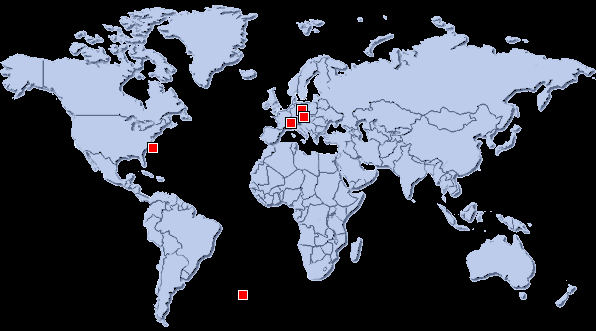
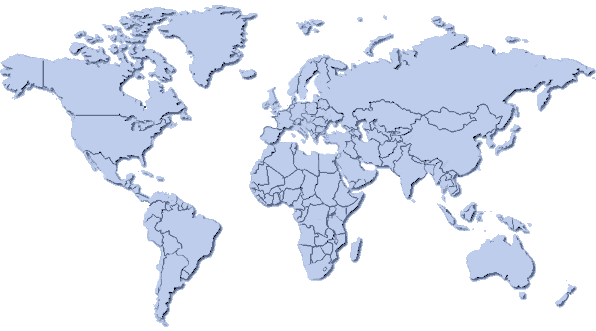
[svn] - finally, there is support for changing the coordinates simply by clicking on the map!   (requires JavaScript support in the browser)

diff --git a/community/web/map/change.php b/community/web/map/change.php
@@ -1,0 +1,83 @@
+<?php include_once("database.php"); ?>
+<?php include_once("auth.php"); ?>
+<?php
+
+if(!Auth::username()) :
+	header("Location: index.php");
+	exit;
+endif;
+
+if ($task) :
+	$ggzuser = Auth::username();
+	$longitude = $long;
+	$latitude = $lat;
+	$res = $database->exec("UPDATE userinfo " .
+		"SET longitude = $longitude, latitude = $latitude " .
+		"WHERE handle = '$ggzuser'");
+	header("Location: index.php");
+	exit;
+endif;
+
+?>
+
+<?php $global_leftbar = "disabled"; ?>
+<?php $global_rightbar = "disabled"; ?>
+<?php include("top.inc"); ?>
+
+<script type="text/javascript">
+
+function hover()
+{
+var map = document.getElementById("map");
+//window.statusbar.??? = "quuuux";
+mousex = window.event.x - map.x;
+mousey = window.event.y - map.y;
+}
+
+function round(x)
+{
+return (x);
+}
+
+function click()
+{
+map_width = 596;
+map_height = 331;
+calibrate_x = -10;
+calibrate_y = -20;
+longpart = 360 * (mousex / map_width);
+latpart = 180 * (mousey / map_height);
+longitude = round((longpart - calibrate_x) - 180);
+latitude = round(90 - (latpart + calibrate_y));
+s = "Set coordinates to:\n";
+s = s + "Longitude: " + longitude + "\n";
+s = s + "Latitude: " + latitude;
+alert(s);
+window.location = "change.php?task=change&long=" + longitude + "&lat=" + latitude;
+}
+
+</script>
+
+<div id="main">
+	<h1>
+		<span class="itemleader">:: </span>
+		World map - Modification
+		<span class="itemleader"> :: </span>
+		<a name="articles"></a>
+	</h1>
+	<div class="text">
+	Click on your location on the map in order to update the database
+	with the correct coordinates.
+	</div>
+	<h2>
+		<span class="itemleader">:: </span>
+		Selection map
+		<span class="itemleader"> :: </span>
+		<a name="database"></a>
+	</h2>
+	<div class="text">
+	<img src="genmap.php?highlight=<?php echo Auth::username(); ?>" id="map" border="0" onmousemove="hover()" onclick="click()">
+	</div>
+</div>
+
+<?php include("bottom.inc"); ?>

diff --git a/community/web/map/genmap.php b/community/web/map/genmap.php
@@ -1,0 +1,42 @@
+<?php include_once("database.php"); ?>
+<?php
+
+header("Content-type: image/png");
+
+$im = imagecreatefrompng("mundomap.large.png");
+
+$yellow = imagecolorallocate($im, 255, 200, 0);
+$red = imagecolorallocate($im, 255, 0, 0);
+$orange = imagecolorallocate($im, 255, 150, 0);
+$white = imagecolorallocate($im, 255, 255, 255);
+$black = imagecolorallocate($im, 0, 0, 0);
+
+$res = $database->exec("SELECT handle, longitude, latitude FROM userinfo " .
+	"WHERE latitude IS NOT NULL");
+for ($i = 0; $i < $database->numrows($res); $i++)
+{
+	$handle = $database->result($res, $i, "handle");
+	$longitude = $database->result($res, $i, "longitude");
+	$latitude = $database->result($res, $i, "latitude");
+
+	list($mapwidth, $mapheight, $type, $attr) = getimagesize("mundomap.large.png");
+	$longnorm = $longitude + 180;
+	$latnorm = $latitude + 90;
+	$calibrate_x = -10;
+	$calibrate_y = -20;
+	$xpos = (int)(($longnorm + $calibrate_x) * $mapwidth / 360);
+	$ypos = $mapheight - (int)(($latnorm + $calibrate_y) * $mapheight / 180);
+
+	$color = $red;
+	if ($handle == $highlight) :
+		$color = $orange;
+	endif;
+
+	imagerectangle($im, $xpos - 5, $ypos - 5, $xpos + 6, $ypos + 6, $black);
+	imagefilledrectangle($im, $xpos - 4, $ypos - 4, $xpos + 5, $ypos + 5, $white);
+	imagefilledrectangle($im, $xpos - 3, $ypos - 3, $xpos + 4, $ypos + 4, $color);
+}
+
+imagepng($im);
+
+?>

diff --git a/community/web/map/gencoords.php b/community/web/map/gencoords.php
@@ -1,0 +1,35 @@
+<?php include_once("database.php"); ?>
+<?php
+
+echo "<map name='ggzmap'>";
+
+$res = $database->exec("SELECT handle, longitude, latitude FROM userinfo " .
+	"WHERE latitude IS NOT NULL");
+for ($i = 0; $i < $database->numrows($res); $i++)
+{
+	$handle = $database->result($res, $i, "handle");
+	$longitude = $database->result($res, $i, "longitude");
+	$latitude = $database->result($res, $i, "latitude");
+
+	list($mapwidth, $mapheight, $type, $attr) = getimagesize("mundomap.large.png");
+	$longnorm = $longitude + 180;
+	$latnorm = $latitude + 90;
+	$calibrate_x = -10;
+	$calibrate_y = -20;
+	$xpos = (int)(($longnorm + $calibrate_x) * $mapwidth / 360);
+	$ypos = $mapheight - (int)(($latnorm + $calibrate_y) * $mapheight / 180);
+
+	$x = $xpos - 4;
+	$x2 = $xpos + 4;
+	$y = $ypos - 4;
+	$y2 = $ypos + 4;
+
+	echo "<area coords='$x,$y,$x2,$y2'";
+	echo "alt='$handle' title='$handle'";
+	echo "href='/db/players/?lookup=$handle'>";
+
+}
+
+echo "</map>";
+
+?>

diff --git a/community/web/map/index.php b/community/web/map/index.php
@@ -12,7 +12,8 @@
 	<div class="text">
 	This is a map showing all players who registered their coordinates.
 	You can do so on your <a href="/my/change.php">personal page</a>
-	if you are logged in.
+	if you are logged in. Altering the location without knowing the
+	coordinates is now possible by clicking <a href="change.php">here</a>.
 	</div>
 	<h2>
 		<span class="itemleader">:: </span>
@@ -22,9 +23,9 @@
 	</h2>
 	<div class="text">
 <?php
-include_once("map/mundomap.map");
+include_once("map/gencoords.php");
 ?>
-	<img src="mundomap.large.png" usemap="#ggzmap" border="0">
+	<img src="genmap.php" usemap="#ggzmap" border="0">
 	</div>
 </div>
 
